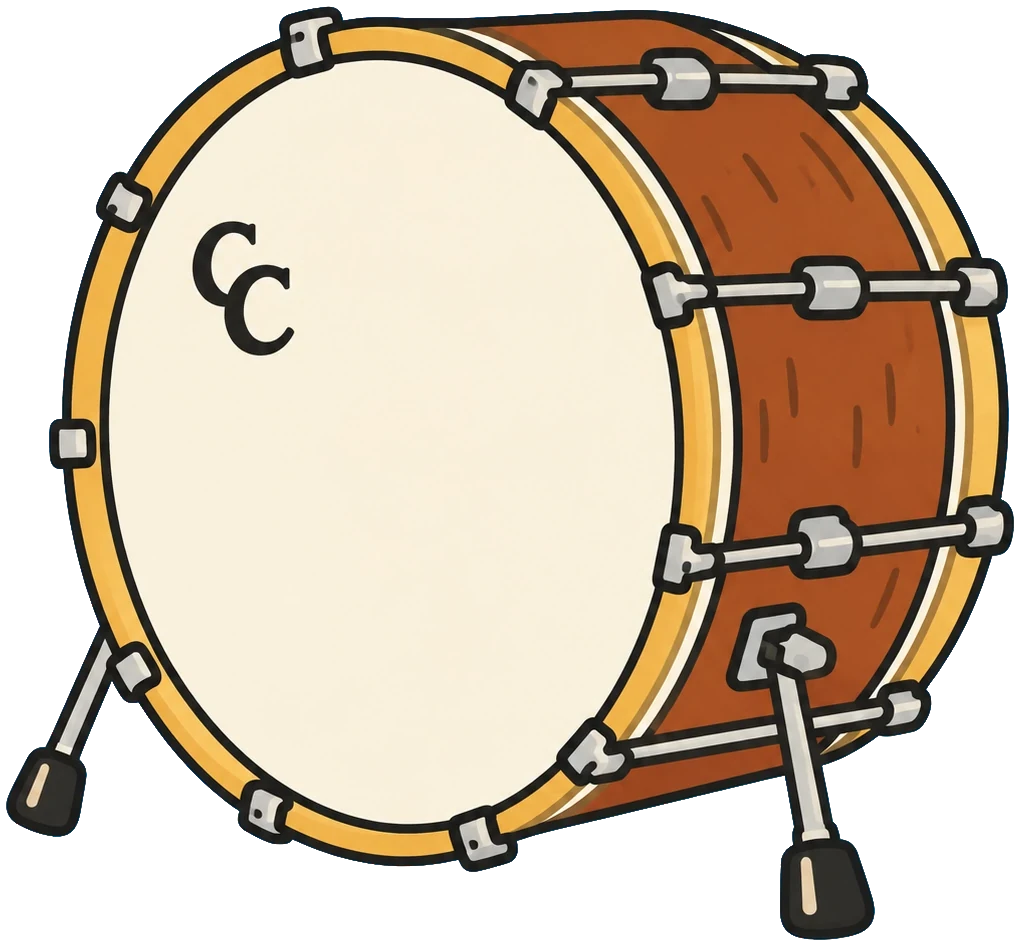
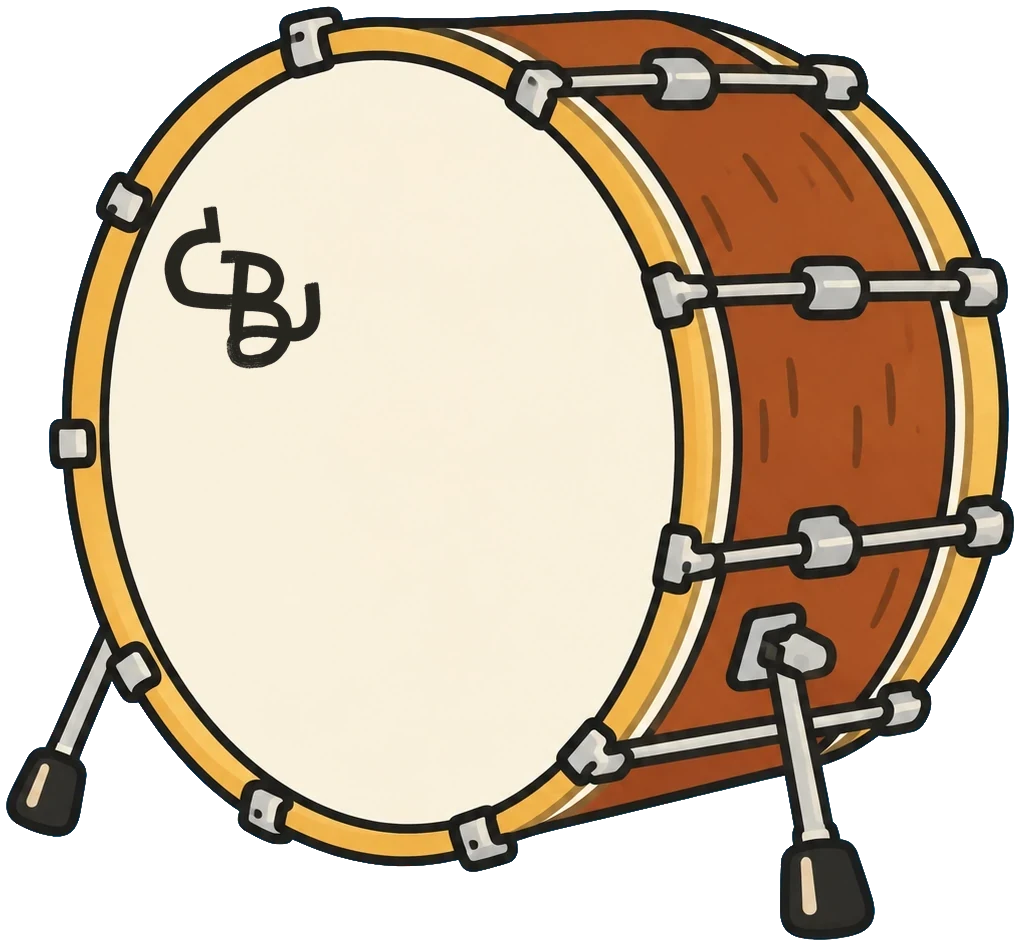
The kick drum's head carries Carl's CB where the CC was
Claude-Session: https://claude.ai/code/session_01EmtaLuxyKEoPQVxo5g5b5C

Changed region(s): [[0.152, 0.2146, 0.3343, 0.3985]]

diff --git a/tools/drum_cb.py b/tools/drum_cb.py
@@ -1,0 +1,58 @@
+"""THE CB ON THE KICK DRUM, in place of the CC: "Should I put my CB from the drum logo (minus the rim) in lieu of the CC on
+the kick drum?", then his logo sent (3 Nov 2026, kept as art/drum-cb/cb-drum-logo-source.jpg). The letters alone are lifted
+out of it (inside the rim's round, any speck dropped), coloured the CC's own ink, and set where the CC sat at about ten
+o'clock on the head (tools/flip_drum.py puts it there), the CC first covered with plain head from just below, as
+flip_drum.py covers the flipped one. Run from the repo root after flip_drum.py: python3 tools/drum_cb.py"""
+from collections import deque
+import numpy as np
+from PIL import Image
+
+src = np.array(Image.open("art/drum-cb/cb-drum-logo-source.jpg").convert("L")).astype(float)
+dark = src < 128
+H, W = dark.shape
+yy, xx = np.mgrid[0:H, 0:W]
+dark &= (xx - 640) ** 2 + (yy - 600) ** 2 < 300**2  # inside the rim's round: its letters
+# each joined patch of ink; the small ones (a fleck of ink) are dropped
+seen = np.zeros_like(dark)
+keep = np.zeros_like(dark)
+for y, x in zip(*np.nonzero(dark)):
+    if seen[y, x]:
+        continue
+    q, part = deque([(y, x)]), []
+    seen[y, x] = True
+    while q:
+        a, b = q.popleft()
+        part.append((a, b))
+        for c, d in ((a + 1, b), (a - 1, b), (a, b + 1), (a, b - 1)):
+            if 0 <= c < H and 0 <= d < W and dark[c, d] and not seen[c, d]:
+                seen[c, d] = True
+                q.append((c, d))
+    if len(part) > 400:
+        for a, b in part:
+            keep[a, b] = True
+ys, xs = np.nonzero(keep)
+y0, y1, x0, x1 = ys.min() - 4, ys.max() + 5, xs.min() - 4, xs.max() + 5
+# its soft edge from the scan's own greys, kept only round the letters
+alpha = np.clip((200 - src[y0:y1, x0:x1]) / 150, 0, 1)
+near = np.zeros_like(keep)
+for dy in range(-3, 4):
+    for dx in range(-3, 4):
+        near |= np.roll(np.roll(keep, dy, 0), dx, 1)
+alpha *= near[y0:y1, x0:x1]
+INK = (39, 37, 32)  # the CC's own ink, read off the drawn head
+cb = np.zeros((y1 - y0, x1 - x0, 4), np.uint8)
+cb[..., :3] = INK
+cb[..., 3] = (alpha * 255).round()
+cb = Image.fromarray(cb)
+
+drum = Image.open("assets/drum.webp").convert("RGBA")
+LOGO = (180, 210, 305, 365)  # the CC on the flipped drum (flip_drum.py: LOGO moved to ten o'clock)
+BLANK_DOWN = 170
+lx0, ly0, lx1, ly1 = LOGO
+drum.paste(drum.crop((lx0, ly0 + BLANK_DOWN, lx1, ly1 + BLANK_DOWN)), (lx0, ly0))
+TALL = 165  # a little taller than the CC was, so his mark reads from across the room
+cb = cb.resize((round(cb.width * TALL / cb.height), TALL), Image.LANCZOS)
+cx, cy = (lx0 + lx1) / 2, (ly0 + ly1) / 2
+drum.alpha_composite(cb, (round(cx - cb.width / 2), round(cy - cb.height / 2)))
+drum.save("assets/drum.webp", "WEBP", quality=90, method=6)
+print("CB on the drum,", cb.size)

diff --git a/CLAUDE.md b/CLAUDE.md
@@ -244,7 +244,9 @@ screenshot never finds the page quiet. Freeze `Date` in the test, and check the 
 where the marching machine leaned, a floor card turned part of the way to the camera like the chair. Flipped in
 its picture by `tools/flip_drum.py`, which puts its "CC" back the right way round ("The drum needs flipped,
 I forgot to mention") and at ten o'clock on the head, where it was drawn ("The cc logo should be on the other
-side at that 10 o'clock Ish position that it was in the original head"); the room's Flip would have mirrored the letters. **The
+side at that 10 o'clock Ish position that it was in the original head"); the room's Flip would have mirrored the letters. **His CB is on the head now, not the CC**: "Should I put my CB from the drum logo (minus the rim) in lieu of the CC on
+the kick drum?", then his logo sent (3 Nov 2026). `tools/drum_cb.py`, run after `flip_drum.py`, lifts the letters out of
+his drum logo and sets them where the CC sat, in its ink. **The
 marching machine moved to the teal wall** past the console's far end, flipped ("the marching machine should
 get flipped horizontally and moves to the left wall outside of the console"): `leanWall: "teal"`, its
 left/right reversed like the console's.
